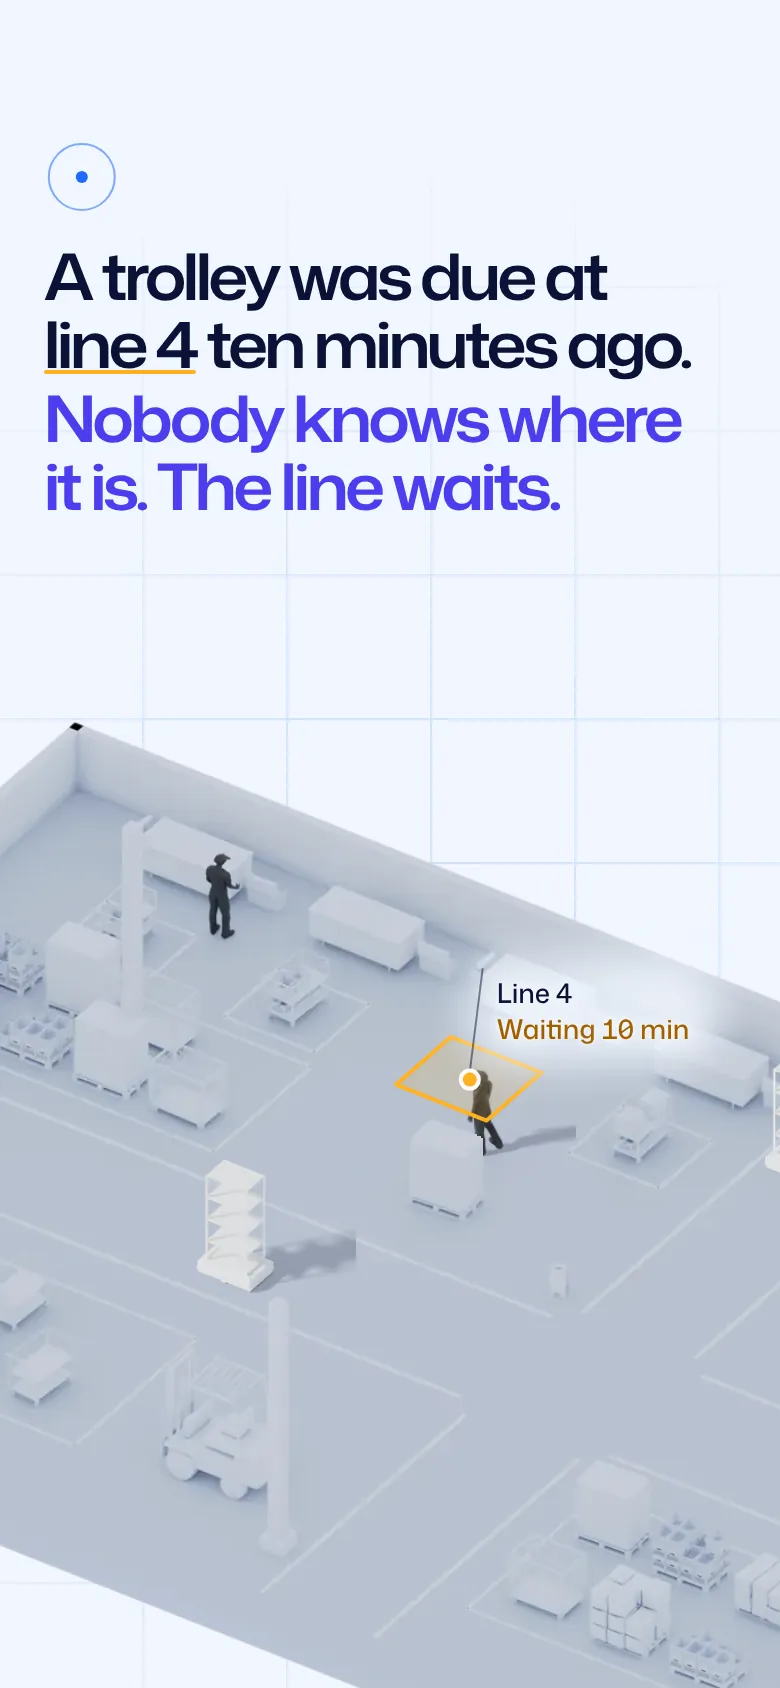
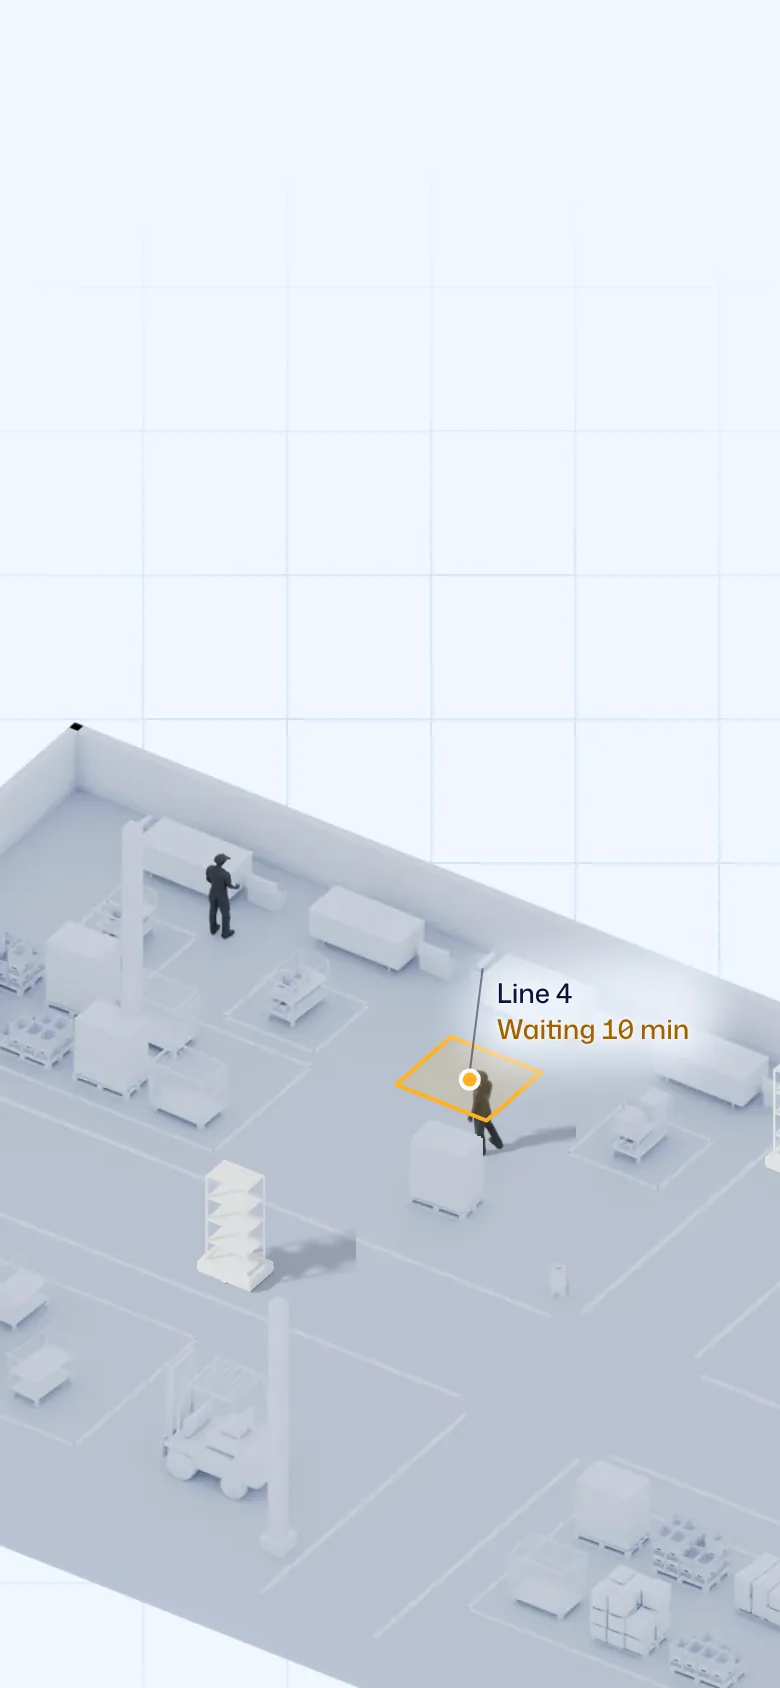
Explainer: a quiet line invites one click for sound, fallback pictures free of copy and on the story clock
Until the browser allows audio, the head row says that one click or tap
anywhere starts the sound; it goes once sound runs. The ten fallback pictures
no longer carry copy or the pointer ring, and the fallback picture follows the
same clock as the copy.

Claude-Session: https://claude.ai/code/session_01YEydMJrMXd25Uxd8C1TWVL

Changed region(s): [[0.0615, 0.154, 0.8923, 0.3081], [0.0615, 0.0924, 0.1538, 0.1232]]

diff --git a/studio/v1/js/floor.js b/studio/v1/js/floor.js
@@ -183,18 +183,22 @@
     var on = true, ctx = null, out = null, air = null, lastPop = 0;
     try { if (localStorage.getItem('flr-snd2') === '0') on = false; } catch (e) {}
     function label() { sndB.textContent = on ? 'Sound on' : 'Sound off'; sndB.setAttribute('aria-pressed', on ? 'true' : 'false'); }
+    // Browsers keep a page silent until the first click, tap or key. Until then a quiet line says that one click anywhere starts the sound.
+    var hint = document.createElement('span'); hint.className = 'flr-hint'; hint.setAttribute('aria-hidden', 'true');
+    hint.textContent = (matchMedia('(hover:none)').matches ? 'Tap' : 'Click') + ' anywhere for sound'; head.appendChild(hint);
+    function hintSet() { hint.classList.toggle('show', on && onScreen && !(ctx && ctx.state === 'running')); }
     label();
     function boot() {
       if (ctx || !on) return; var AC = window.AudioContext || window.webkitAudioContext; if (!AC) return;
-      ctx = new AC(); out = ctx.createGain(); out.gain.value = 0; out.connect(ctx.destination);
+      ctx = new AC(); ctx.onstatechange = hintSet; out = ctx.createGain(); out.gain.value = 0; out.connect(ctx.destination);
       var n = ctx.sampleRate * 2, buf = ctx.createBuffer(1, n, ctx.sampleRate), d = buf.getChannelData(0), v = 0;
       for (var i = 0; i < n; i++) { v = (v + (Math.random() * 2 - 1) * .02) / 1.02; d[i] = v * 3.2; }
       air = ctx.createBufferSource(); air.buffer = buf; air.loop = true; var f = ctx.createBiquadFilter(); f.type = 'lowpass'; f.frequency.value = 420; var g = ctx.createGain(); g.gain.value = .5;
       air.connect(f); f.connect(g); g.connect(out); air.start();
     }
-    ['pointerdown', 'keydown', 'touchend', 'click'].forEach(function (ev) { window.addEventListener(ev, function () { boot(); if (ctx && ctx.state === 'suspended') ctx.resume(); }, { passive: true }); });
-    sndB.addEventListener('click', function () { on = !on; try { localStorage.setItem('flr-snd2', on ? '1' : '0'); } catch (e) {} label(); if (on) boot(); });
-    function gate() { if (!ctx) return; var t = (on && onScreen && !document.hidden) ? .55 : 0; out.gain.setTargetAtTime(t, ctx.currentTime, .25); }
+    ['pointerdown', 'pointerup', 'keydown', 'touchend', 'click'].forEach(function (ev) { window.addEventListener(ev, function () { boot(); if (ctx && ctx.state === 'suspended') ctx.resume(); hintSet(); }, { passive: true }); });
+    sndB.addEventListener('click', function () { on = !on; try { localStorage.setItem('flr-snd2', on ? '1' : '0'); } catch (e) {} label(); if (on) boot(); hintSet(); });
+    function gate() { hintSet(); if (!ctx) return; var t = (on && onScreen && !document.hidden) ? .55 : 0; out.gain.setTargetAtTime(t, ctx.currentTime, .25); }
     function tone(f, t0, dur, vol, type) {
       if (!ctx || !on || !onScreen) return; var t = ctx.currentTime + (t0 || 0), o = ctx.createOscillator(), g = ctx.createGain();
       o.type = type || 'sine'; o.frequency.value = f; g.gain.setValueAtTime(0, t); g.gain.linearRampToValueAtTime(vol, t + .008); g.gain.exponentialRampToValueAtTime(.0001, t + dur);
@@ -589,7 +593,8 @@
     raf = 0; if (!onScreen && !SHOT) { snd.gate(); return; }
     var dt = Math.min(.1, (now - lastT) / 1000 || .016); lastT = now;
     if (ps < 0) { ps = p; tbs = -1; } else ps += (p - ps) * (1 - Math.exp(-dt * 8)); if (Math.abs(p - ps) < .00002) ps = p;
-    setBeat(beatOf(p)); snd.gate(); var tbT = tbOf(ps); if (tbs < 0 || ps === p && Math.abs(tbT - tbs) < .0005) tbs = tbT; else { var dq = tbT - tbs, mq = Math.max(1.6, Math.abs(dq) * 1.4) * dt; tbs += Math.max(-mq, Math.min(mq, dq)); }
+    snd.gate(); var tbT = tbOf(ps); if (tbs < 0 || ps === p && Math.abs(tbT - tbs) < .0005) tbs = tbT; else { var dq = tbT - tbs, mq = Math.max(1.6, Math.abs(dq) * 1.4) * dt; tbs += Math.max(-mq, Math.min(mq, dq)); }
+    if (!frozen) setBeat(Math.min(NB - 1, Math.floor(tbs + 1e-6)));
     textFrame(frozen ? frozen[0] : tbs, frozen ? .2 : dt);
     if (live) {
       if (frozen) frame(frozen[0], frozen[1]); else frame(tbs, (now - T0) / 1000);
@@ -599,7 +604,7 @@
     kick();
   }
   function kick() { if (!raf && (onScreen || SHOT)) raf = requestAnimationFrame(tick); }
-  function onScroll() { readScroll(); if (near) start(); setBeat(beatOf(p)); kick(); }
+  function onScroll() { readScroll(); if (near) start(); if (bi < 0) setBeat(beatOf(p)); kick(); }
   window.addEventListener('scroll', onScroll, { passive: true });
   window.addEventListener('resize', function () { measure(); onScroll(); });
   document.addEventListener('visibilitychange', function () { snd.gate(); kick(); });

diff --git a/studio/v1/css/floor.css b/studio/v1/css/floor.css
@@ -64,6 +64,10 @@
 .flr-hp{display:flex;gap:4px}
 .flr-hp i{position:relative;display:block;width:26px;height:2px;border-radius:1px;background:rgba(11,18,56,.14);overflow:hidden}
 .flr-hp i::after{content:"";position:absolute;inset:0;background:var(--flr-blue);transform-origin:0 50%;transform:scaleX(var(--f,0))}
+.flr-hint{display:inline-flex;align-items:center;gap:8px;margin-left:10px;font-weight:400;font-size:13px;color:var(--flr-soft);white-space:nowrap;opacity:0;transition:opacity .5s}
+.flr-hint.show{opacity:1}
+.flr-hint::before{content:"";width:6px;height:6px;border-radius:50%;background:var(--flr-blue);animation:flr-hb 1.6s ease-in-out infinite}
+@keyframes flr-hb{50%{opacity:.25}}
 .flr-roll{position:relative}
 .flr-on .flr-t{position:absolute;left:0;right:0;top:0;padding:0;max-width:none;visibility:hidden}
 .flr-on .flr-roll .flr-ch{display:none}
@@ -125,6 +129,7 @@
 .flr-re{display:none!important}
 .flr-done .flr-re{display:inline-flex!important}
 .flr-done .flr-skip{display:none}
+.flr-shot .flr-col *{visibility:hidden!important}
 .flr-shot .flr-col,.flr-shot .flr-ctl,.flr-shot .flr-fog,.flr-shot .flr-lead,.flr-shot .flr-scale{visibility:hidden}
 
 /* ---------- narrow screens: words above, the plant below ---------- */
